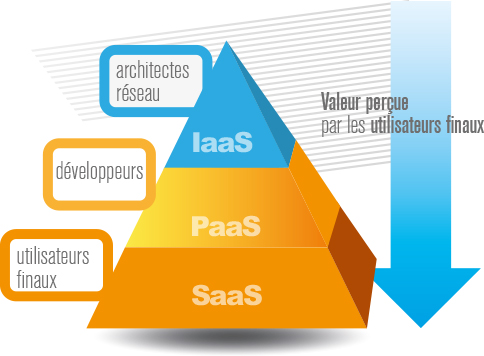
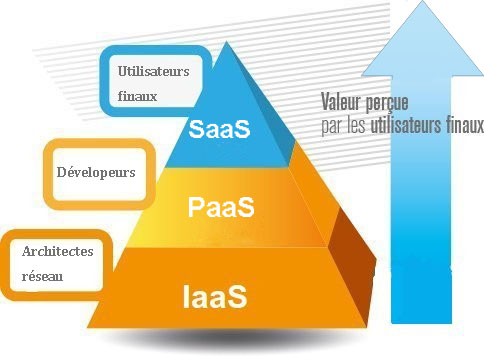
chapitre3:clustering

diff --git a/chapitre3/chapitre3.tex b/chapitre3/chapitre3.tex
@@ -1,8 +1,77 @@
 \chapter{Orchestration des applications distribuées}
 \begin{onehalfspace}
-Docker est un outil qui a révolutionné le monde informatique par l'introduction de la notion de container, donc il est normal de chercher  à l'utiliser en production. De nos jours, les développeurs utilisent de plus en plus Docker pour déployer des applications qui s'éxecutent sur plusieurs conteneurs et plusieurs hôtes. Orchestrer ces applications distribuées nécessite une approche \textbf{multi-conteneur} et \textbf{multi-hôte} native avec une interface utilisateur et de l'outillage commun qui fonctionne sur toutes les infrastructures. Plusieurs outils ont été présentés par de grandes entreprises et sont toujours en cours de développement. Nous exposerons dans ce chapitre les projets promoteurs dans l'orchestration des applications distribuées.
+
+\initial{D}ocker est un outil qui a révolutionné le monde informatique par l'introduction de la notion de container, donc il est normal de chercher  à l'utiliser en production. De nos jours, les développeurs utilisent de plus en plus Docker pour déployer des applications qui s'éxecutent sur plusieurs conteneurs et plusieurs hôtes. Orchestrer ces applications distribuées nécessite une approche \textbf{multi-conteneur} et \textbf{multi-hôte} native avec une interface utilisateur et de l'outillage commun qui fonctionne sur toutes les infrastructures. Plusieurs outils ont été présentés par de grandes entreprises et sont toujours en cours de développement. Nous exposerons dans ce chapitre les projets promoteurs dans l'orchestration des applications distribuées.
+
+\newpage
+
+\section{Le clustering}
+
+Nous avons présenté dans le chapitre 2 le Cloud Computing ainsi que les services classiques que l'on peut trouver. Dans cette section, nous allons parler du cluster comme service et l'on va le situer dans le pyramide des services du Cloud (Figure ~\ref{fig:pyramide-cluster}, page~\pageref{fig:pyramide-cluster}).
+
+\begin{figure}[H]
+\centering
+\includegraphics [scale=0.7]{chapitre3/assets/pyramide}
+\caption{Le cluster dans le cloud}
+\label{fig:pyramide-cluster}
+\end{figure}
+
+\begin{itemize}
+	\item \textbf{Plate-forme}: On développe une application dans un ensemble particulier de langages de programmation à l'aide d'un ensemble particulier des \acrshort{api}s et l'on pousse ce code vers la plate-forme. La plate-forme exécute et lance une seule copie ou éventuellement plusieurs copies de celui-ci dépendemment du traffic, il monte en charge automatiquement. 
+	\item \textbf{\acrshort{iaas}}: A l'autre bout du pyramide, on trouve l'\acrshort{iaas}, seulement des machines virtuelles, donc ce sont des ordinateurs ordinaires, sauf qu'ils vivent essentiellement dans l'internet. Quand on va chez un fournisseur \acrshort{iaas} et l'on demande de nous fournir un ordinateur avec une telle quantité de mémoire et de disque, un tel nombre de \acrshort{cpu} et qui exécute une version spécifique de Linux; dans quelques secondes on a notre ordinateur où l'on peut exécuter n'importe quel logiciel, mais on est responsable de la gestion de la machine entière.
+	\item \textbf{Cluster}: C'est lorsque l'on veut gérer un ensemble de machines, un cluster de machines comme une seule entité, pas seulement un ordinateur individuel (\acrshort{iaas}) et pas toute une plate-forme magique parce que l'on veut faire plus. C'est une question d'agilité et de la flexibilité.
+
+\end{itemize}
+
+
+\def\arraystretch{1.6}%  1 is the default, change whatever you need
+
+{\rowcolors{1}{tabOdd}{tabEven}
+\begin{center}
+\begin{table}[H]
+
+	\caption{Le cluster dans le cloud \label{tab:table_label}}
+	\begin{tabu}{| X[c] | X[c] | X[c] | X[c] |} 
+
+
+	\hline
+	\rowcolor{tabHead}
+	\textbf{} & \textbf{IaaS (VMs)} & \textbf{Cluster} & \textbf{Plate-forme}\\ [0.95ex] 
+	\hline\hline
+	A quoi sert ? 	& Créer et déployer les images des machines virtuels & Créer et déployer des conteneurs & créer et déployer des applications (services) \\ 
+	Automatise					& - & Ordonnancement & Tout \\ 
+	gére					& Un seul atome & Des serveurs & Des applications \\ 
+	fléxibilité					& ++ 	& + 	& - \\ 
+	Agilité						& - 	& + 	& ++ \\ 
+	\hline
+	\end{tabu}
+\end{table}
+\end{center}
+}
+
+
+\begin{itemize}
+	\item Master: C'est la machine qui est responsable du cluster. Il veille sur son bon fonctionnement grâce au système de découverte des services et l'ordonnanceur
+	\item Ordonnanceur: Dans un ordinateur ordinaire, pour démarrer un processus, on a besoin d'un gestionnaire des processus pour les faire fonctionner et les garder en cours d'exécution. L'ordonnanceur le fera sur l'ensemble des machines (cluster)
+	\item Noeud: Une machine qui appartient au cluster, elle peut être réel ou virtuel
+	\item Gestionnaire des conteneurs: C'est la partie de logiciel qui est distribué dans chaque machine du cluster. Il supervise les conteneurs ordonnancés, les redémarre en cas de nécéssité...
+	\item Conteneurs ordonnancés: Un service fonctionne à l'intérieur d'un conteneur ordonnancé. En effet, ce conteneur ne s'est pas trouvé dans une telle machine par hasard ou suivant la volonté du développeur, mais parce que le développeur a déclaré à l'ordonnanceur de cluster, le maître, que le service a besoin, par exemple, d'exécuter dix copies de ce service, 3 coeurs, 2 Go de mémoire et peu de disque. L'ordonnanceur fournit pour le service un endroit où il peut vivre en paix.
+\end{itemize}
+
+
+\begin{figure}[H]
+\centering
+\includegraphics [scale=0.55]{chapitre3/assets/cluster}
+\caption{Un cluster en général}
+\label{fig:}
+\end{figure}
+
+Nous avons vu la notion de cluster et les processus d'automatisation, d'organisation, de coordination, et de gestion de services informatiques distribués incontournables à son fonctionnement, c'est ce que l'on appelle \textbf{l'orchestration}. Dans la section suivante, nous allons détailler les différents solutions d'orchestration qui existent dans le monde de containérisation (Docker).
+
 \section{Orchestration Docker}
 Les capacités d'orchestration de Docker sont construites sur les fondations de l'engine Docker existante. Ces capacités sont assurées par trois nouveaux services de la plate-forme qui sont conçus pour couvrir tous les aspects du cycle de vie dynamique des applications distribuées. Selon l'entreprise Docker, toutes ces caractéristiques sont conçues avec la philosophie de conception "\emph{Batteries Included, but Removable}" qui indique qu'ils peuvent fonctionner avec des services tierces. Ceci offre le choix aux clients de choisir entre les différents outils d'orchestration de Docker et les alternatives communautaires.
+
+
 %\begin{figure}[H]
 %\centering
 %\includegraphics [scale=0.4]{chapitre3/assets/orchestrationdocker.png}

diff --git a/chapitre2/chapitre2.tex b/chapitre2/chapitre2.tex
@@ -153,53 +153,43 @@ Le principal avantage des conteneurs c'est qu'ils sont libres de l'overhead du s
 
 Lors de cette étude, nous allons se baser sur un travail réalisé par IBM\cite{ibm-benchmark-docker}, où nous allons mettre l'accent sur les la différence des performances entre Docker et KVM. Le benchmark concerne 15 machines virtuelles simultanément en marche sous OpenStack.
 
+
+\def\arraystretch{1.4}%  1 is the default, change whatever you need
+
+
 {\rowcolors{1}{tabOdd}{tabEven}
 \begin{center}
 \begin{table}[H]
 
+	\centering
+
 	\caption{Performances: Docker VS KVM \label{tab:table_label}}
 	\begin{tabular}{| c | c | c |} 
 
-
 	\hline
 	\rowcolor{tabHead}
-	\textbf{Tests} & \textbf{Docker} & \textbf{KVM}\\ [0.95ex] 
+	\textbf{Tests} & \textbf{Docker} & \textbf{KVM}\\
 	\hline\hline
 	Temps moyen de démarrage 					& 3.9s 				& 	5.88s \\ 
-	\hline\hline
 	Usage CPU démarrage (sys)					& 0.44\%			& 	2.08\% \\ 
-	\hline\hline
 	Usage CPU démarrage (usr)					& 1.14\% 			& 	12.6\% \\ 
-	\hline\hline
 	Usage de mémoire au démarrage				& 45.8Mb/VM 		& 	185Mb/VM \\ 
-	\hline\hline
 
 	Temps moyen de redémarrage 					& 2.54s 			& 	124.45s \\ 
-	\hline\hline
 	Usage CPU redémarrage (sys)					& 0.11\% 			& 	0.19\% \\ 
-	\hline\hline
 	Usage CPU redémarrage (usr)					& 0.34\% 			& 	0.82\% \\ 
-	\hline\hline
 	Usage de mémoire au redémarrage				& 57Mb	 			& 	467Mb	  \\ 
-	\hline\hline
 
 	Temps moyen de suppression 					& 4.09s 			& 	4.45s \\ 
-	\hline\hline
 
 	Temps moyen de Snapshot (VM to Image) 		& 26.39s 			& 	42.93s \\ 
-	\hline\hline
 	Usage CPU de Snapshot (sys)			 		& 0.11\% 			& 	1.07\% \\ 
-	\hline\hline
 	Usage CPU de Snapshot (usr)			 		& 0.4\% 			& 	1.58\% \\ 
-	\hline\hline
 	Usage de mémoire de Snapshot		 		& 48Mb 				& 	114Mb \\ 
-	\hline\hline
 
 	Usage de mémoire état stable				& 3.52s 			& 	5.87s \\ 
-	\hline\hline
 
 	Calcul des nombres premier jusqu'à 20000	& 15.11s 			& 	15.08s \\ 
-	\hline\hline
 
 	Débit du réseaux (Mbits/s)					& 940.26 			& 	940.56 \\ 
 	\hline

diff --git a/chapitre4/chapitre4.tex b/chapitre4/chapitre4.tex
@@ -57,7 +57,7 @@ Heapster est un projet open source de Google qui comble la limitation de cAdviso
 Nous allons installer ce système de supervision dans un cluster Deis dont les serveurs fonctionne au-dessus de CoreOS. Comme c'est déjà mentionné, tous les services, sous CoreOS, sont installés en tant que conteneur. L'on trouvera les fichiers d'installations dans les annexes.  
 
 \begin{itemize}
-	\item cAdvisor doit être installé sur tous les serveurs du cluster. Heureusement, l'ordonnanceur Fleet effectue cette opération de façon automatique et scalable. En effet, il suffit de mentionner \emph{Global=true} dans le fichier d'installation;
+	\item cAdvisor doit être installé sur tous les serveurs du cluster; Heureusement, l'ordonnanceur Fleet effectue cette opération de façon automatique et scalable. En effet, il suffit de mentionner \emph{Global=true} dans le fichier d'installation;
 	\item InfluxDB, Heapster et Grafana doivent être installé dans le même serveur. L'on exprime cette contrainte par \emph{X-ConditionMachineOf=influxdb.service}. Ainsi, Fleet va s'en sortir pour faire coexister les trois services.
 \end{itemize}
 

diff --git a/chapitre1/chapitre1.tex b/chapitre1/chapitre1.tex
@@ -1,7 +1,7 @@
 \chapter{Contexte général du projet}
 \begin{onehalfspace}
 
-\initial{L} e présent chapitre permet de situer le projet dans son contexte général, à travers, dans un premier temps, la présentation de l'organisme d'accueil, notamment l'entreprise Sayoo, de ses services et de son organisme interne.
+\initial{L}e présent chapitre permet de situer le projet dans son contexte général, à travers, dans un premier temps, la présentation de l'organisme d'accueil, notamment l'entreprise Sayoo, de ses services et de son organisme interne.
 
 \newpage
 

diff --git a/preamble/glossaire.tex b/preamble/glossaire.tex
@@ -4,3 +4,8 @@
 
 
 \newacronym{yaml}{YAML}{YAML Ain't Markup Language}
+\newacronym{api}{API}{Application Programming Interface}
+\newacronym{iaas}{IaaS}{Infrasturcture As a Service}
+\newacronym{paas}{IaaS}{Platform As a Service}
+\newacronym{saas}{IaaS}{Software As a Service}
+\newacronym{cpu}{CPU}{Central processing unit}

diff --git a/preamble/preamble.tex b/preamble/preamble.tex
@@ -32,6 +32,8 @@
 
 \usepackage[table]{xcolor}
 \usepackage{tabularx}
+\usepackage{tabu}
+
 
 \usepackage{wrapfig}
 \usepackage{titlesec}
